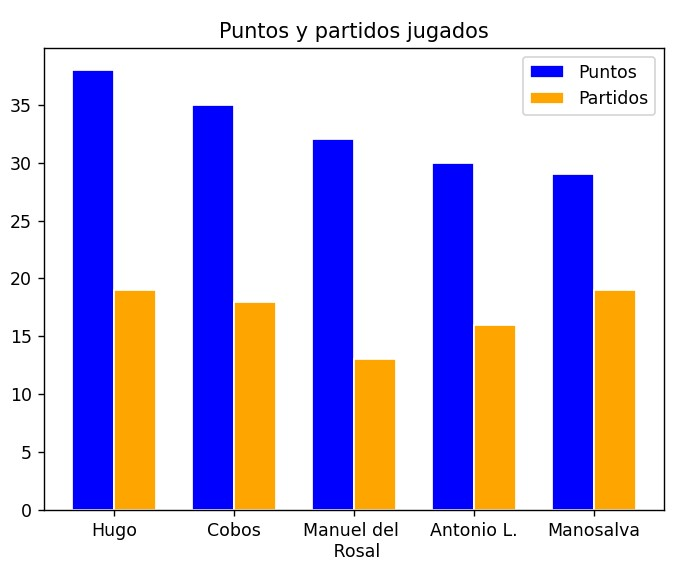
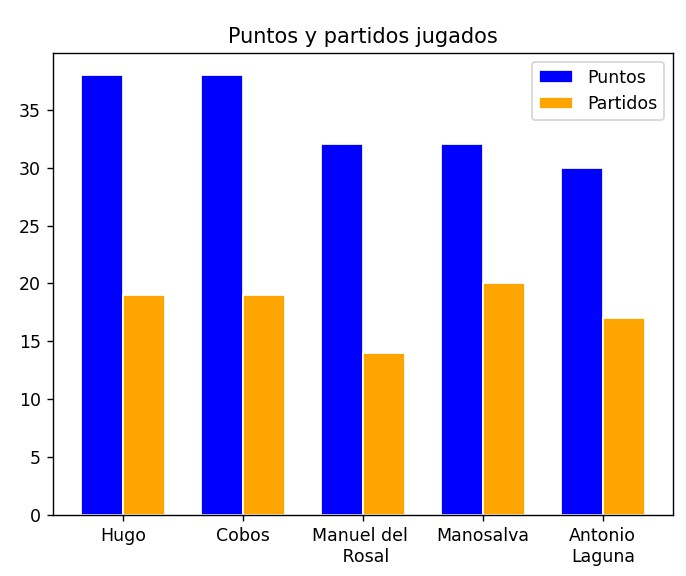
San José

Changed region(s): [[0.0, 0.03, 0.9926, 0.9912]]

diff --git a/python/victoriesGraph.py b/python/victoriesGraph.py
@@ -3,9 +3,9 @@ import numpy as np
 def graphVictories():
     
     # create data
-    x = ['Hugo', 'Cobos', 'Manuel del \n Rosal', 'Antonio L.', 'Manosalva']
-    y1 = [38, 35, 32, 30, 29]
-    y2 = [19, 18, 13, 16, 19]
+    x = ['Hugo', 'Cobos', 'Manuel del \n Rosal', 'Manosalva', 'Antonio\nLaguna']
+    y1 = [38, 38, 32, 32, 30]
+    y2 = [19, 19, 14, 20, 17]
 
     # set width of bar
     bar_width = 0.35
